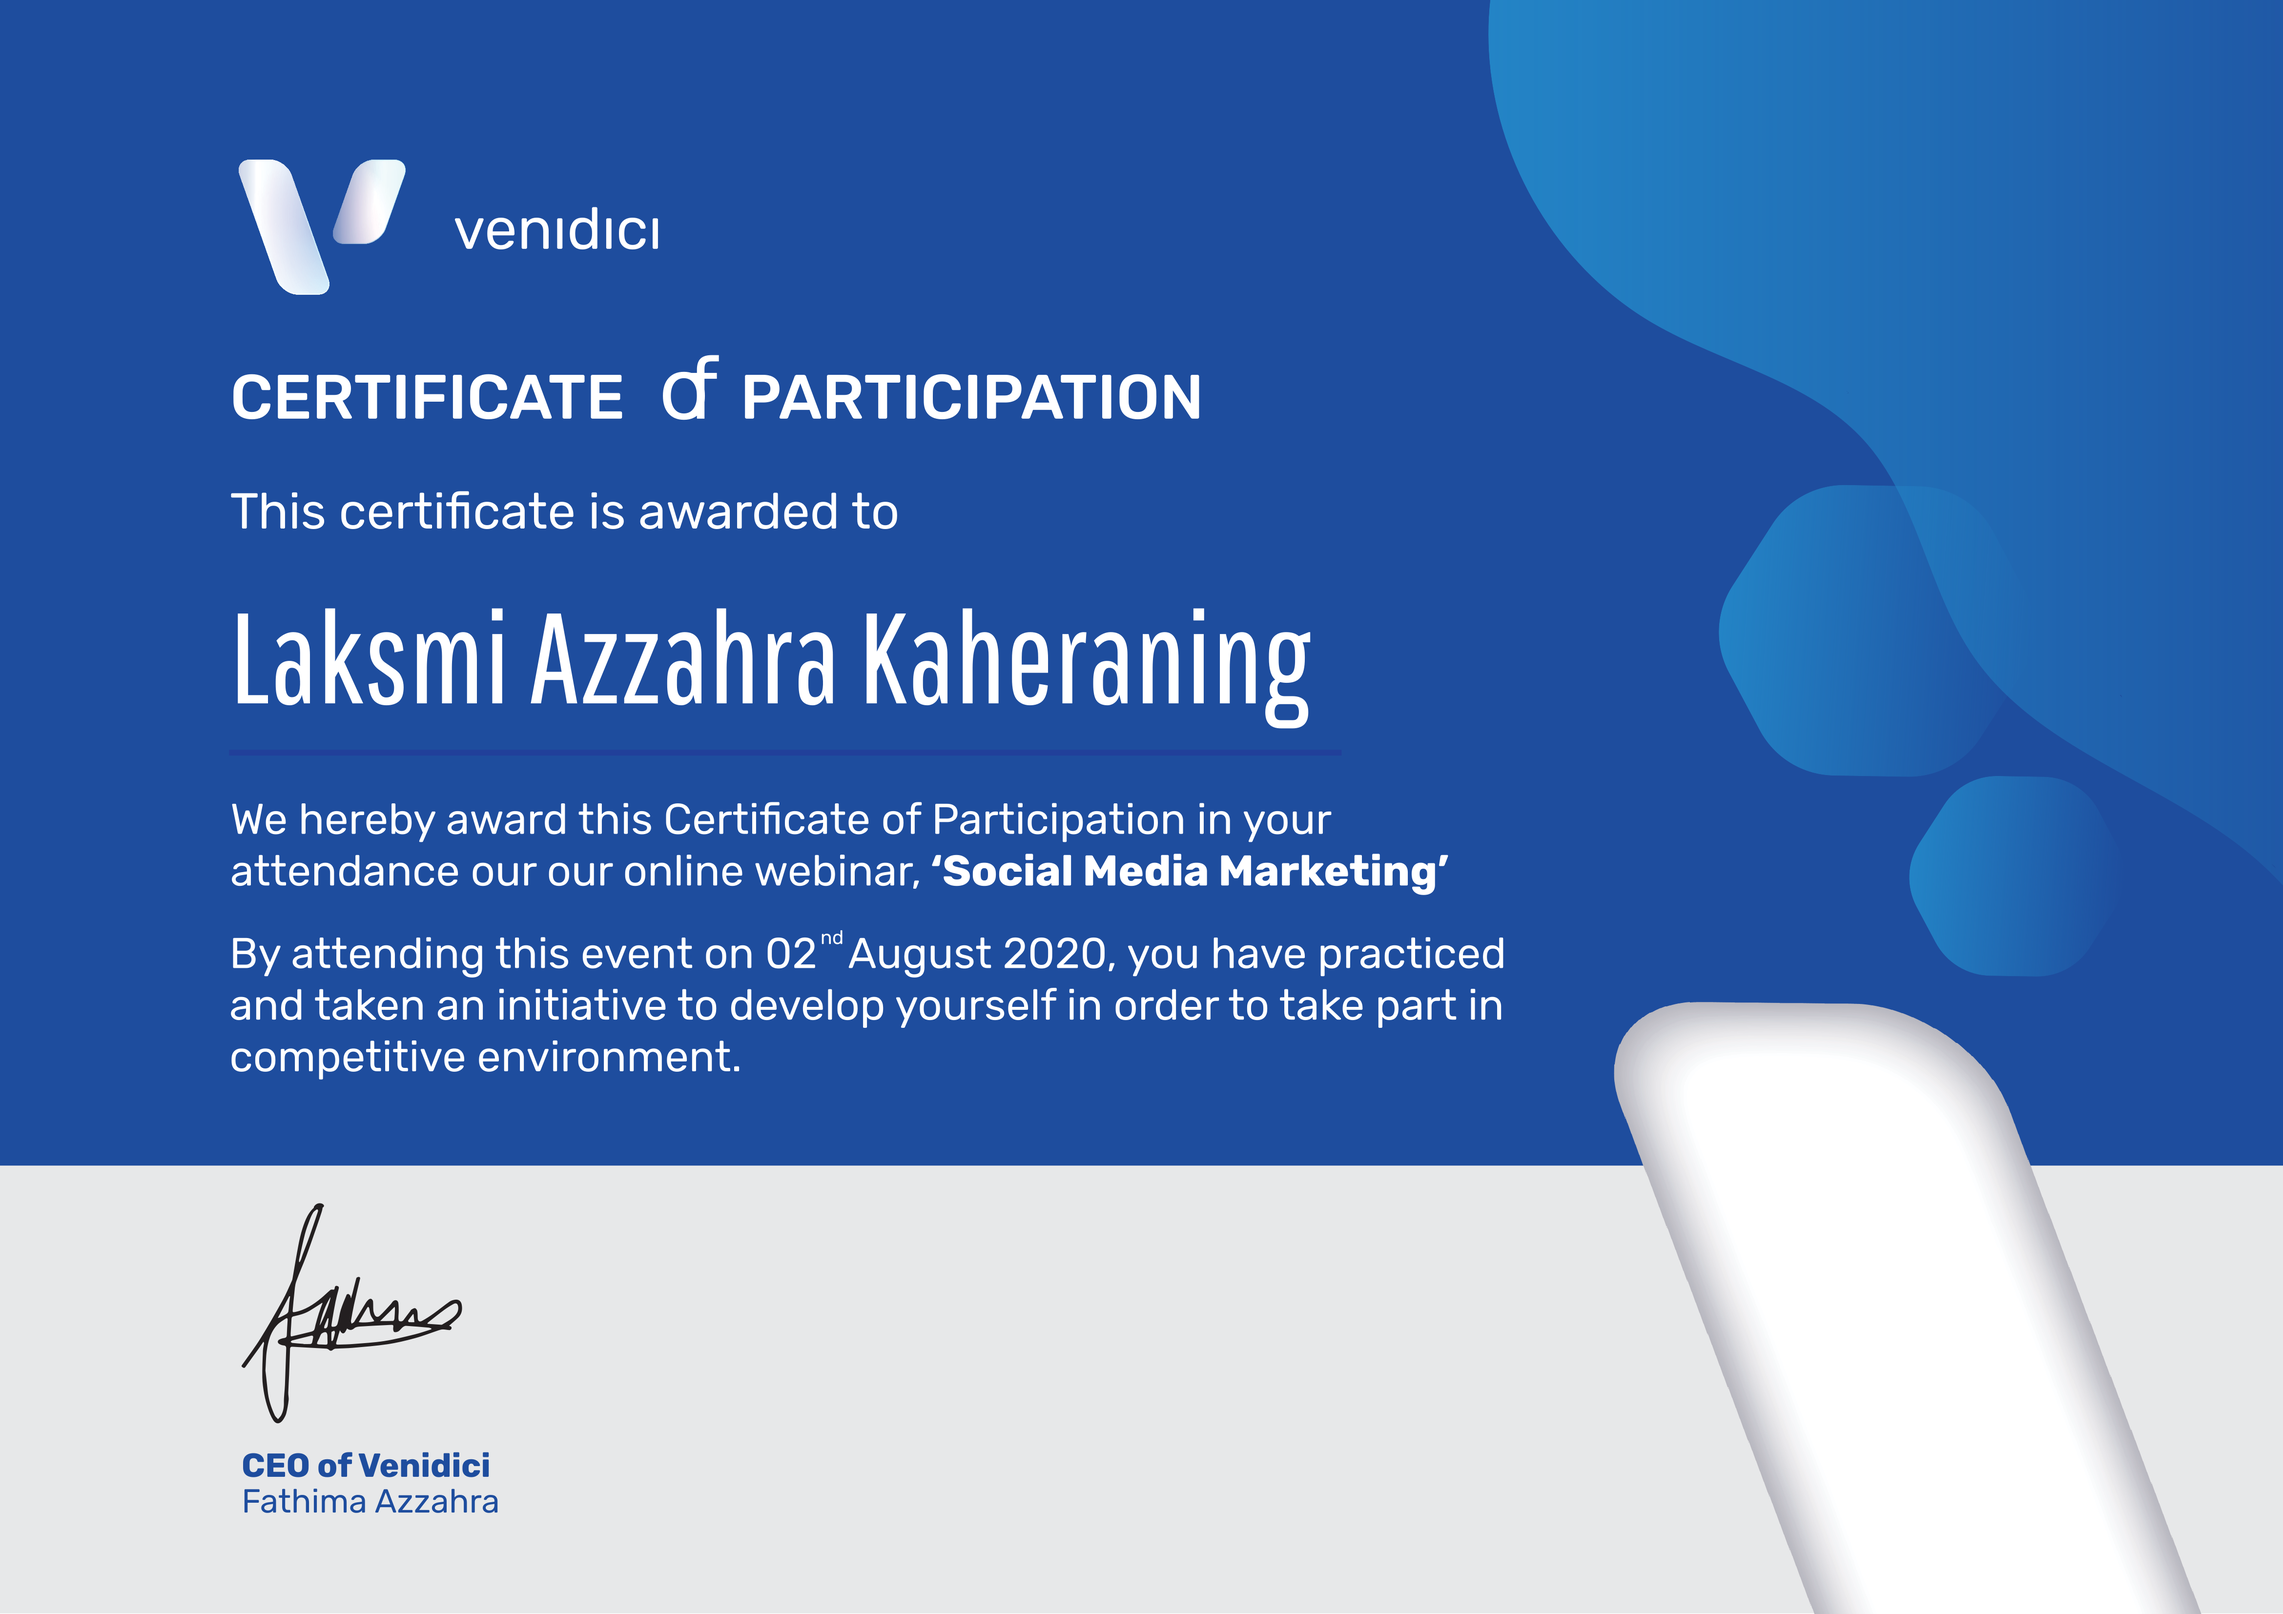
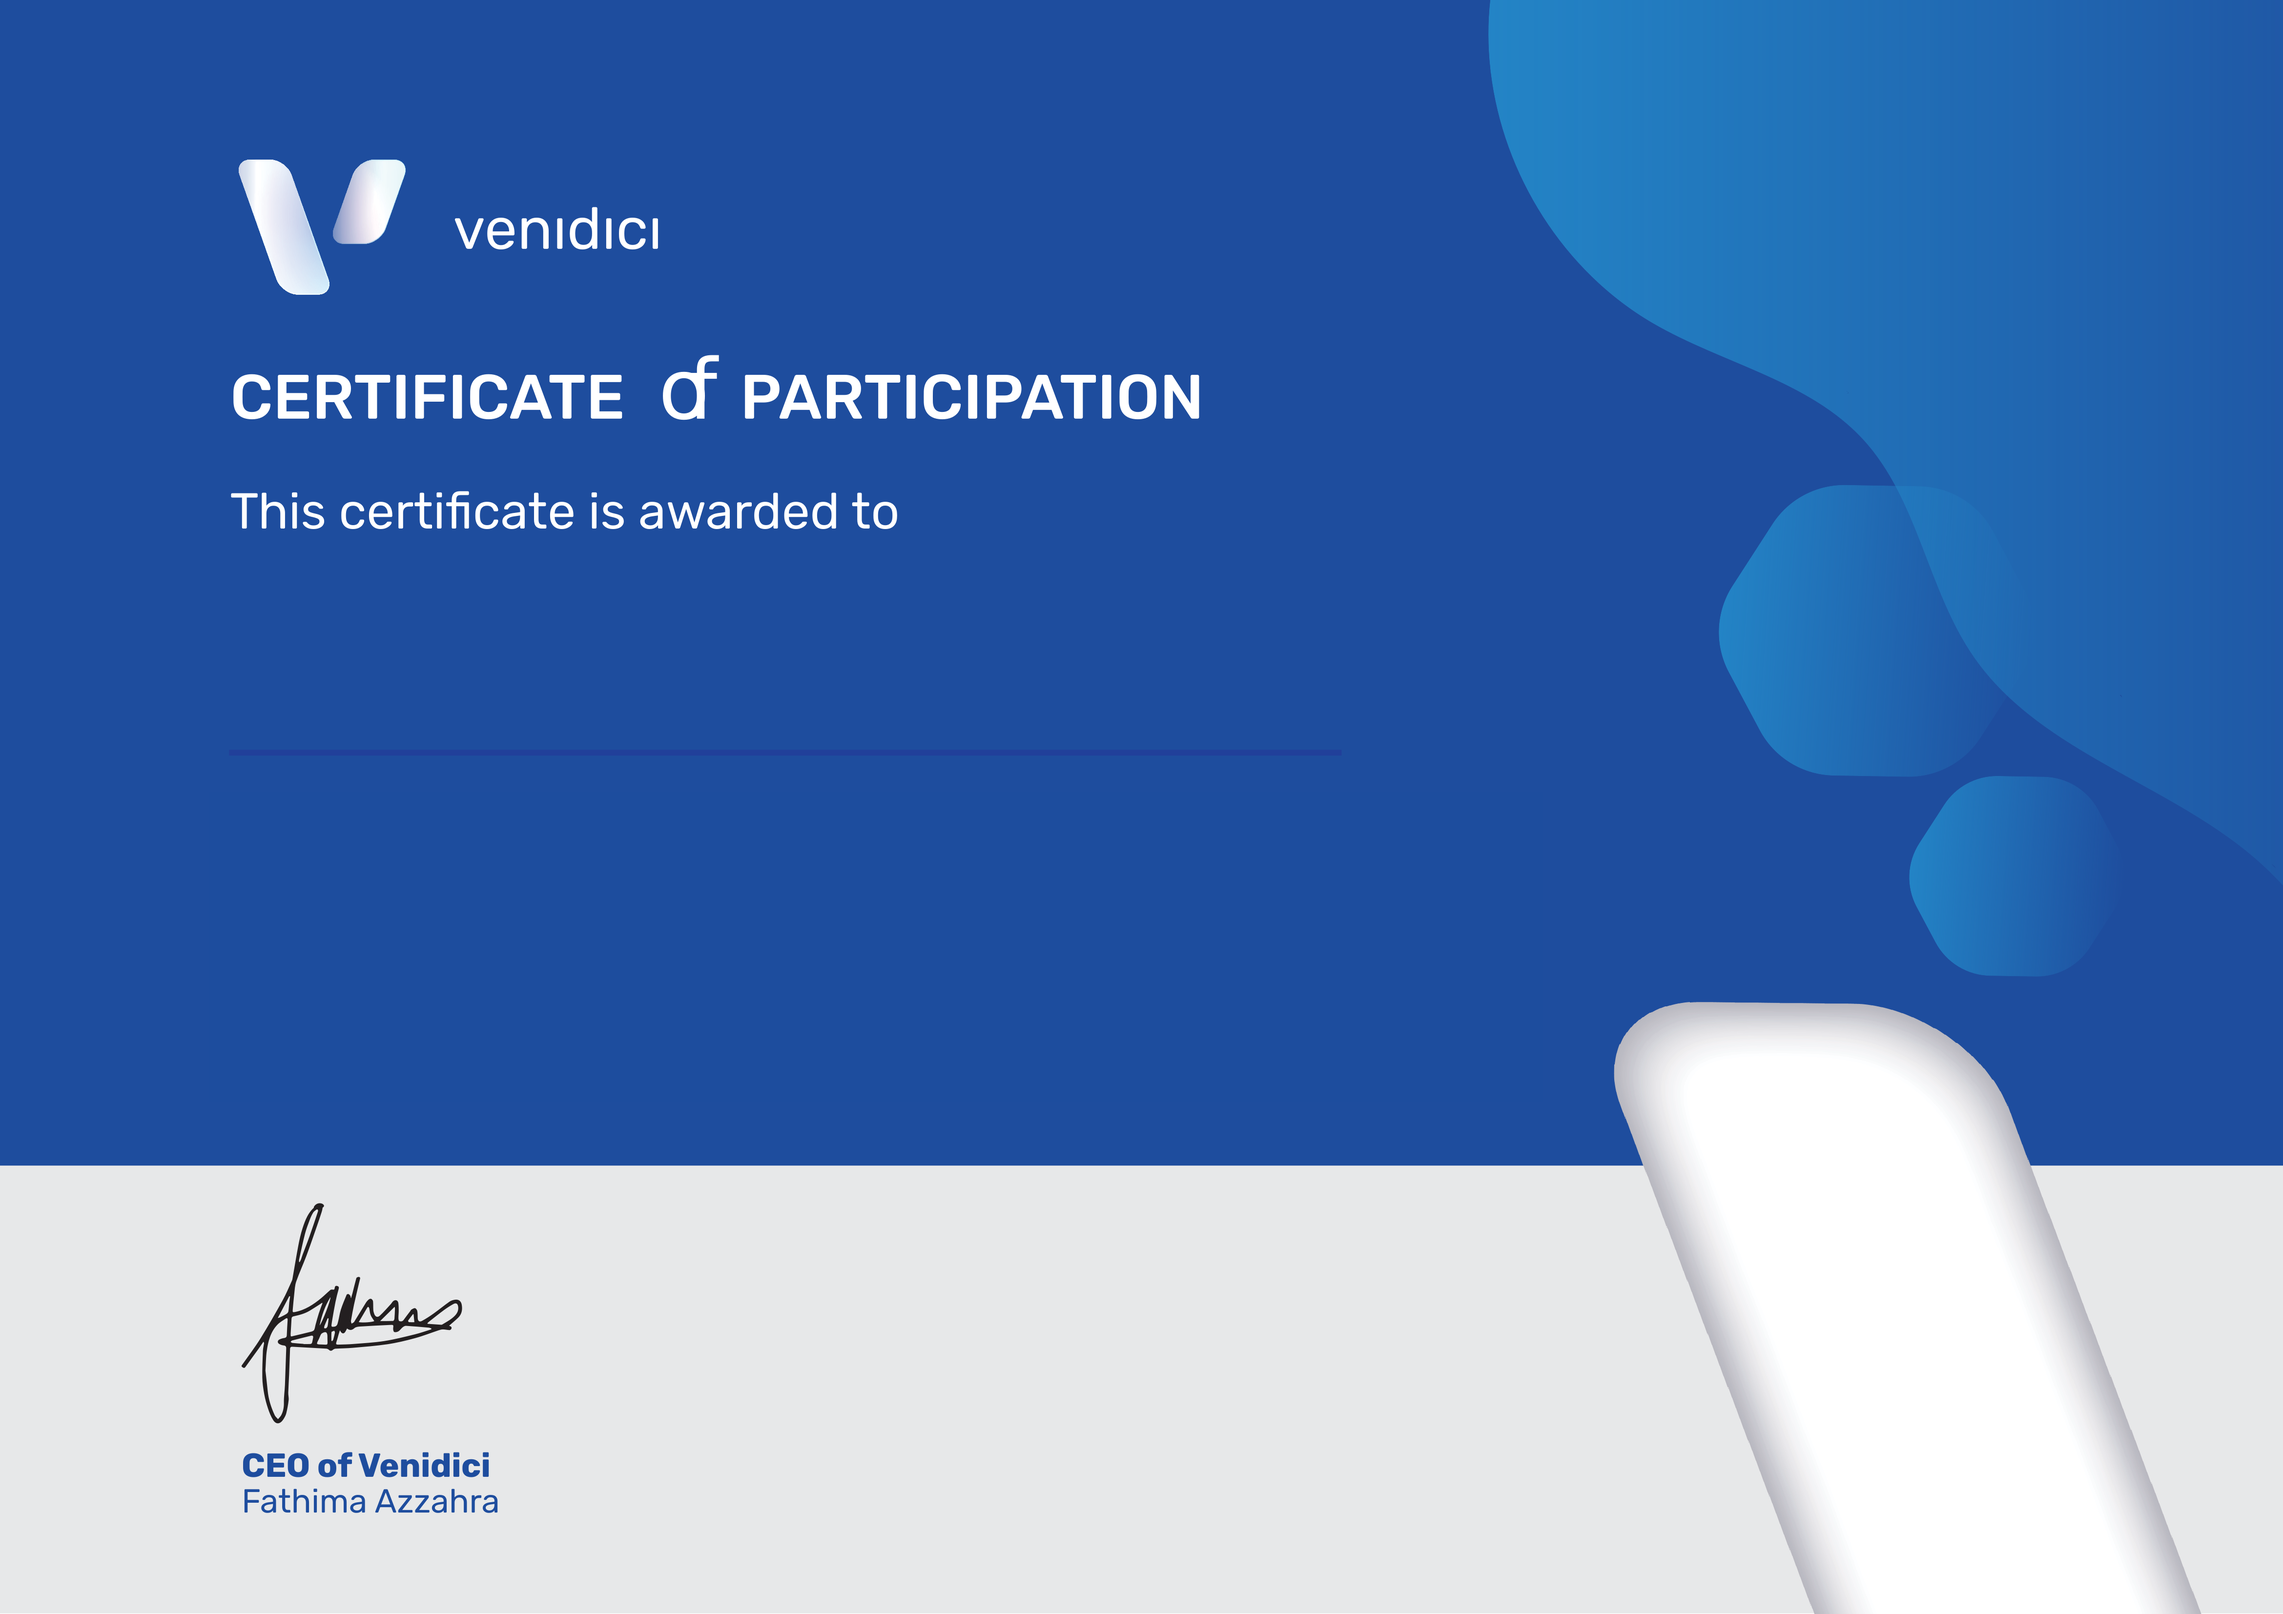
generate certificate done

Changed region(s): [[0.0936, 0.4983, 0.6555, 0.6852], [0.0936, 0.3738, 0.5931, 0.436]]

diff --git a/resources/views/client/user-dashboard.blade.php b/resources/views/client/user-dashboard.blade.php
@@ -599,7 +599,17 @@
                     <div class="right-section" style="width:37vw">
                         <div>
                             <p class="bigger-text" id="card-title" style="font-family: Rubik Medium;color:#55525B;margin-bottom:0px">{{$course->title}}</p>
-                            <p class="small-text" style="font-family:Rubik Regular;color:#888888;margin-bottom:0px;margin-top:0.5vw">Mr. Raditya Dika</p>   
+                            <p class="small-text" style="font-family:Rubik Regular;color:#888888;margin-bottom:0px;margin-top:0.5vw">By 
+                            @foreach($course->teachers as $teacher)
+
+                                @if ($loop->last && count($course->teachers) != 1)
+                                dan
+                                @elseif (!$loop->first)
+                                ,
+                                @endif
+                                {{$teacher->name}}
+                            @endforeach
+                            </p>   
                             <!--<p class="small-text" style="font-family: Rubik Medium;color:#3B3C43;margin-bottom:0px;margin-top:1vw">Lesson number and title</p>-->
                             <p class="small-text" style="font-family: Rubik Regular;color:#3B3C43;margin-top:0.5vw;">{{$course->subtitle}}</p>
                             <a class="small-text" style="font-family: Rubik Regular;margin-bottom:0px;color: rgba(85, 82, 91, 0.8);background: #FFFFFF;box-shadow: inset 0px 0px 2px #BFBFBF;border-radius: 5px;padding:0.2vw 0.5vw;text-decoration:none;">{{$course->courseCategory->category}}</a>
@@ -697,7 +707,17 @@
                         <div class="right-section" style="width:37vw">
                             <div>
                                 <p class="bigger-text" id="card-title" style="font-family: Rubik Medium;color:#55525B;margin-bottom:0px">{{$course->title}}</p>
-                                <p class="small-text" style="font-family:Rubik Regular;color:#888888;margin-bottom:0px;margin-top:0.5vw">Mr. Raditya Dika</p>   
+                                <p class="small-text" style="font-family:Rubik Regular;color:#888888;margin-bottom:0px;margin-top:0.5vw">By 
+                                @foreach($course->teachers as $teacher)
+
+                                    @if ($loop->last && count($course->teachers) != 1)
+                                    dan
+                                    @elseif (!$loop->first)
+                                    ,
+                                    @endif
+                                    {{$teacher->name}}
+                                @endforeach
+                                </p>   
                                 <!--<p class="small-text" style="font-family: Rubik Medium;color:#3B3C43;margin-bottom:0px;margin-top:1vw">Lesson number and title</p>-->
                                 <p class="small-text" style="font-family: Rubik Regular;color:#3B3C43;margin-top:0.5vw;">{{$course->subtitle}}</p>
                                 <a class="small-text" style="font-family: Rubik Regular;margin-bottom:0px;color: rgba(85, 82, 91, 0.8);background: #FFFFFF;box-shadow: inset 0px 0px 2px #BFBFBF;border-radius: 5px;padding:0.2vw 0.5vw;text-decoration:none;">{{$course->courseCategory->category}}</a>
@@ -706,7 +726,13 @@
                         </div>
                         <div style=" display: flex;flex-direction: column;justify-content: center;align-items: center;padding:1.4vw 2vw;" >
                             <i class="fas fa-check-circle big-heading"></i>
-                            <a href="" id="detail-button" class="small-text text-nowrap" style="font-family: Rubik Regular;margin-bottom:0px;cursor:pointer;margin-top:2vw">Cek Sertifikat</a>
+                            <form action="{{route('print_certificate')}}" method="post">
+                            @csrf
+                            <input type="hidden" name="name" value="{{auth()->user()->name}}">
+                            <input type="hidden" name="course_id" value="{{$course->id}}">
+                            <button id="detail-button" class="small-text text-nowrap" style="font-family: Rubik Regular;margin-bottom:0px;cursor:pointer;margin-top:2vw">Cek Sertifikat</button>
+
+                            </form>
                         </div>
                     </div> 
                 </div>

diff --git a/resources/views/client/certificate.blade.php b/resources/views/client/certificate.blade.php
@@ -4,16 +4,15 @@
     <meta charset="UTF-8">
     <meta name="viewport" content="width=device-width, initial-scale=1.0">
     <title>Certificate</title>
-    <link href='http://fonts.googleapis.com/css?family=Denk+One' rel='stylesheet' type='text/css'>
+    <!--<link href='http://fonts.googleapis.com/css?family=Denk+One' rel='stylesheet' type='text/css'>-->
 <style>
   @page { margin: 0in; }
   body {
-    font-family: Denk One, sans-serif;
-    background-image: url('/assets/images/client/Sertifikat Venidici-Bisnis.png');
+    /*font-family: Denk One, sans-serif;*/
+    background-image: url('assets/images/client/Sertifikat Venidici-Bisnis.png');
     background-position: top left;
     background-repeat: no-repeat;
     background-size: 100%;
-    padding: 300px 100px 10px 100px;
     width:100%;
     height:100%;
   }
@@ -23,7 +22,11 @@
 
 <body>
 
-<p style="font-size:4.2vw;margin-left:2.5vw;margin-top:5vw">Laskmi Azzahra Kaheraning</p>
+<p style="font-size:95px;margin-left:240px;margin-top:630px;color:#FFFFFF">{{$name}}</p>
+<div style="margin-top:-70px;padding-right:800px">
+<p style="font-size:45px;margin-left:240px;color:#FFFFFF">{{$first_sentence}} <span style="font-style:bold">{{$course_name}}</span> </p>
+<p style="font-size:45px;margin-left:240px;color:#FFFFFF">{{$second_sentence}} {{$finish_date}}, {{$third_sentence}}</p>
+</div>
 
 </body>
 </html>

diff --git a/app/Http/Controllers/Client/PagesController.php b/app/Http/Controllers/Client/PagesController.php
@@ -241,11 +241,20 @@ class PagesController extends Controller
         return view('client/for-public/woki');
     }
 
-    public function print(){
-        $pdf = PDF::loadView('client/certificate')
-        ->setPaper('A4', 'potrait');
+    public function print(Request $request){
+        $course = Course::findOrFail($request->course_id);
+        $user_course = auth()->user()->courses()->where('course_id',$course->id)->first();
         
-        // return $pdf->download('certificate.pdf'); //download
+        $name = $request->name;
+        $finish_date = $user_course->pivot->updated_at->todatestring();
+        $first_sentence = 'We hereby award this Certificate of Completion on our On-Demand Class,';
+        $second_sentence    = 'By completing this course on ';
+        $course_name = $course->title;
+        $third_sentence    = 'you have practiced and taken an initiative to develop yourself in order to take part in cometitive environment';
+
+        $pdf = PDF::loadView('client/certificate',compact('name','finish_date','first_sentence','second_sentence','course_name','third_sentence'))
+        ->setPaper('A4', 'landscape');
+        //return $pdf->download('certificate.pdf'); //download
         return $pdf->stream(); //view
     }
 

diff --git a/routes/web.php b/routes/web.php
@@ -395,7 +395,7 @@ Route::get('/certificate', function () {
 });
 
 /* START OF DOMPDF ROUTING */
-Route::get('/certificate/pdf', [PagesController::class, 'print'])->name('print_pdf');
+Route::post('/certificate/pdf', [PagesController::class, 'print'])->name('print_certificate');
 /* END OF DOMPDF ROUTING */
 
 
